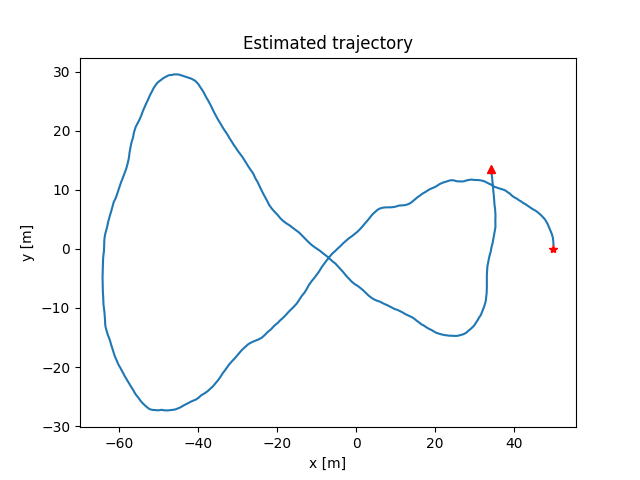
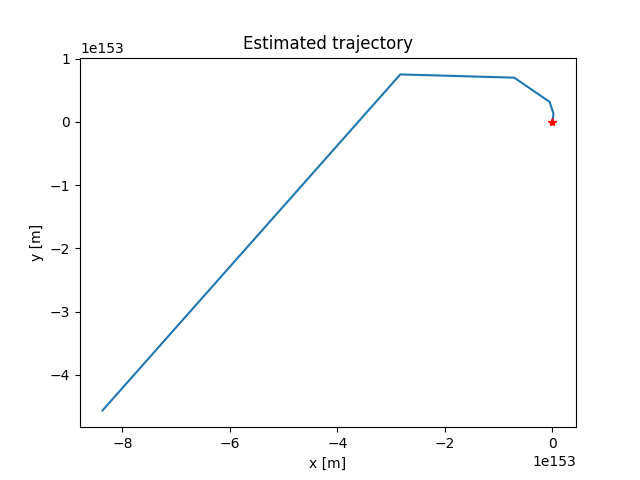
Added update step

diff --git a/course2_state_estimation/week2_assignment/week2_assignment.py b/course2_state_estimation/week2_assignment/week2_assignment.py
@@ -37,6 +37,7 @@ x_est[0] = np.array([x_init, y_init, th_init]) # initial state
 P_est[0] = np.diag([1, 1, 0.1]) # initial state covariance
 # Initialze the state uncertainity matrix
 P_check = P_est[0]
+x_check = x_est[0].reshape(3, 1)
 
 def wraptopi(x):
     if x > np.pi:
@@ -51,13 +52,38 @@ def wraptopi(x):
 def measurement_update(lk, rk, bk, P_check, x_check):
     
     # 1. Compute measurement Jacobian
-
+    # Our measurement model consists of r and phi. Distance and 
+    # bearing to a landmark. Need to take the partial derivatives 
+    # of the two equations (shown in the homework, y_k) with respect
+    # to our three unkowns x_k, y_k, omega_k 
+    # Our first measurement equation is:
+    # r = sqrt((x_l - x_k - d*cos(theta_k)) ^2 + (y_l - y_k - d*sin(theta_k)) ^2)
+    cos_theta = cos(x_check[2])
+    sin_theta = sin(x_check[2])
+    # These are the two terms inside the square root
+    delta_x = lk[0] - x_check[0] - d * cos_theta
+    delta_y = lk[1] - x_check[1] - d * sin_theta
+    r = sqrt(delta_x**2 + delta_y**2)
+    # The second measurement model
+    phi = wraptopi(atan2(delta_y, delta_x) - x_check[2])
+    
+    # Our jacobian is a 2x3, since we have 2 observations (r/phi), and 
+    # 3 unknowns (x, y, theta)
+    H = np.array([
+        [-delta_x / r,   -delta_y / r,     d * (delta_x * sin_theta - delta_y * cos_theta) / r],
+        [delta_y / r**2, -delta_x / r**2, -d * (delta_y * sin_theta + delta_x * cos_theta) / r**2]]).reshape(2, 3)
+    
     # 2. Compute Kalman Gain
-
+    K = P_check @ H.T @ np.linalg.inv(H @ P_check @ H.T + cov_y)
+    # Innovation sequence
+    z = np.vstack([rk - r, wraptopi(bk) - phi])
+    
     # 3. Correct predicted state (remember to wrap the angles to [-pi,pi])
+    x_check = x_check + K @ z
+    x_check[2] = wraptopi(x_check[2])
 
     # 4. Correct covariance
-
+    P_check = (np.eye(3) - K @ H) @ P_check
     return x_check, P_check
 
 
@@ -66,8 +92,6 @@ for k in range(1, len(t)):  # start at 1 because we've set the initial predicito
     delta_t = t[k] - t[k - 1]  # time step (difference between timestamps)
     
     # 1. Update state with odometry readings (remember to wrap the angles to [-pi,pi])
-    # This is the state vector at the previous step
-    x_check = x_est[k - 1].reshape(3, 1)
     # Break out theta before update since its used in several spots
     theta = x_check[2]
     sin_theta_delta_t = sin(theta) * delta_t
@@ -76,7 +100,7 @@ for k in range(1, len(t)):  # start at 1 because we've set the initial predicito
     x_check[0] += cos_theta_delta_t * v[k]
     x_check[1] += sin_theta_delta_t * v[k]
     x_check[2] += delta_t * om[k]
-    #x_check[2] = wraptopi(x_check[2])
+    x_check[2] = wraptopi(x_check[2])
     
     # 2. Motion model jacobian with respect to last state
     F_km = np.array([
@@ -93,6 +117,7 @@ for k in range(1, len(t)):  # start at 1 because we've set the initial predicito
     P_check = F_km @ P_check @ F_km.T + L_km @ Q_km @ L_km.T
 
     # 5. Update state estimate using available landmark measurements
+    print("Measurement update number #" + str(k))
     for i in range(len(r[k])):
         x_check, P_check = measurement_update(l[i], r[k, i], b[k, i], P_check, x_check)
 
@@ -102,6 +127,7 @@ for k in range(1, len(t)):  # start at 1 because we've set the initial predicito
     x_est[k, 2] = x_check[2]
     P_est[k, :, :] = P_check
 
+
 e_fig = plt.figure()
 ax = e_fig.add_subplot(111)
 ax.plot(x_est[:, 0], x_est[:, 1])
@@ -110,7 +136,7 @@ plt.plot(x_est[-1, 0], x_est[-1, 1], 'r^')
 ax.set_xlabel('x [m]')
 ax.set_ylabel('y [m]')
 ax.set_title('Estimated trajectory')
-plt.savefig('images/week2_trajectory_xy_no_update_step.png', dpt=300)
+plt.savefig('images/week2_trajectory.png', dpt=300)
 plt.show()
 
 e_fig = plt.figure()
@@ -119,7 +145,7 @@ ax.plot(t[:], x_est[:, 2])
 ax.set_xlabel('Time [s]')
 ax.set_ylabel('theta [rad]')
 ax.set_title('Estimated trajectory')
-plt.savefig('images/week2_trajectory_time_no_update_step.png', dpt=300)
+plt.savefig('images/week2_trajectory.png', dpt=300)
 plt.show()
 
 
@@ -140,7 +166,7 @@ ax.set_xlabel('Time [s]')
 ax.set_ylabel('theta [rad]')
 ax.set_title('Estimated trajectory')
 ax.legend()
-plt.savefig('images/week2_uncertainity_no_update_step.png', dpt=300)
+plt.savefig('images/week2_uncertainity.png', dpt=300)
 plt.show()
 
 with open('submission.pkl', 'wb') as f:
